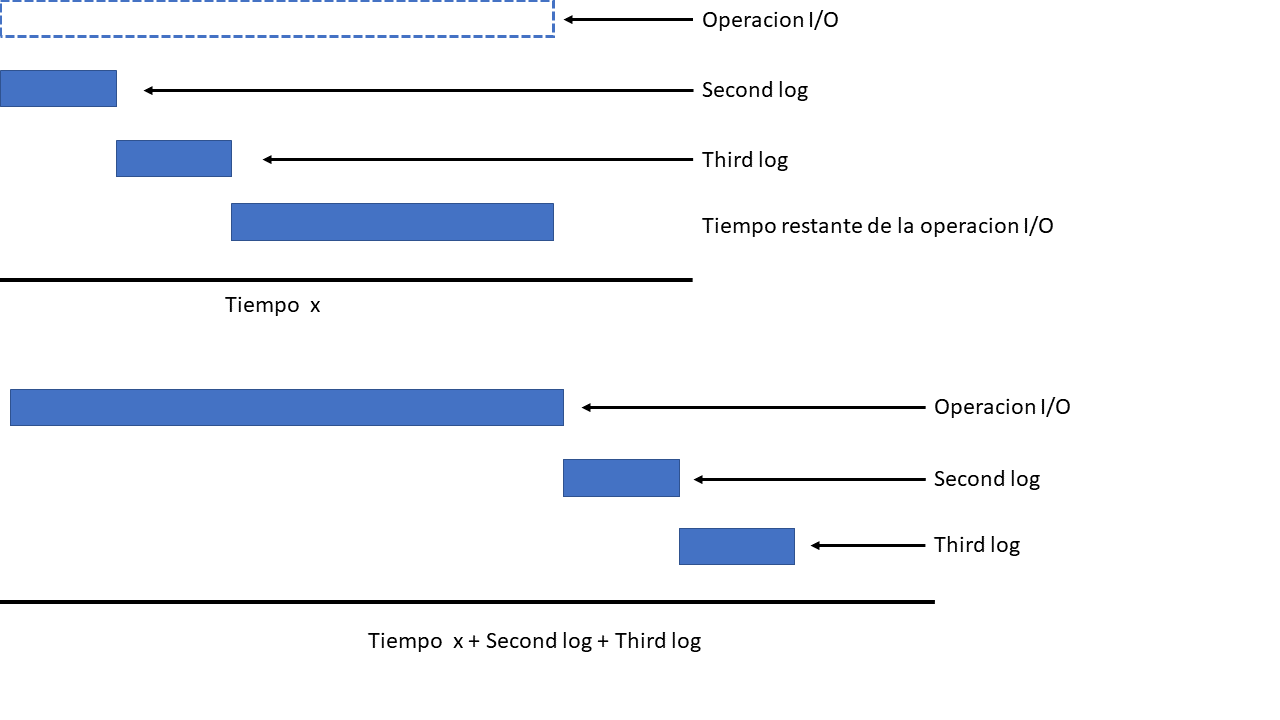
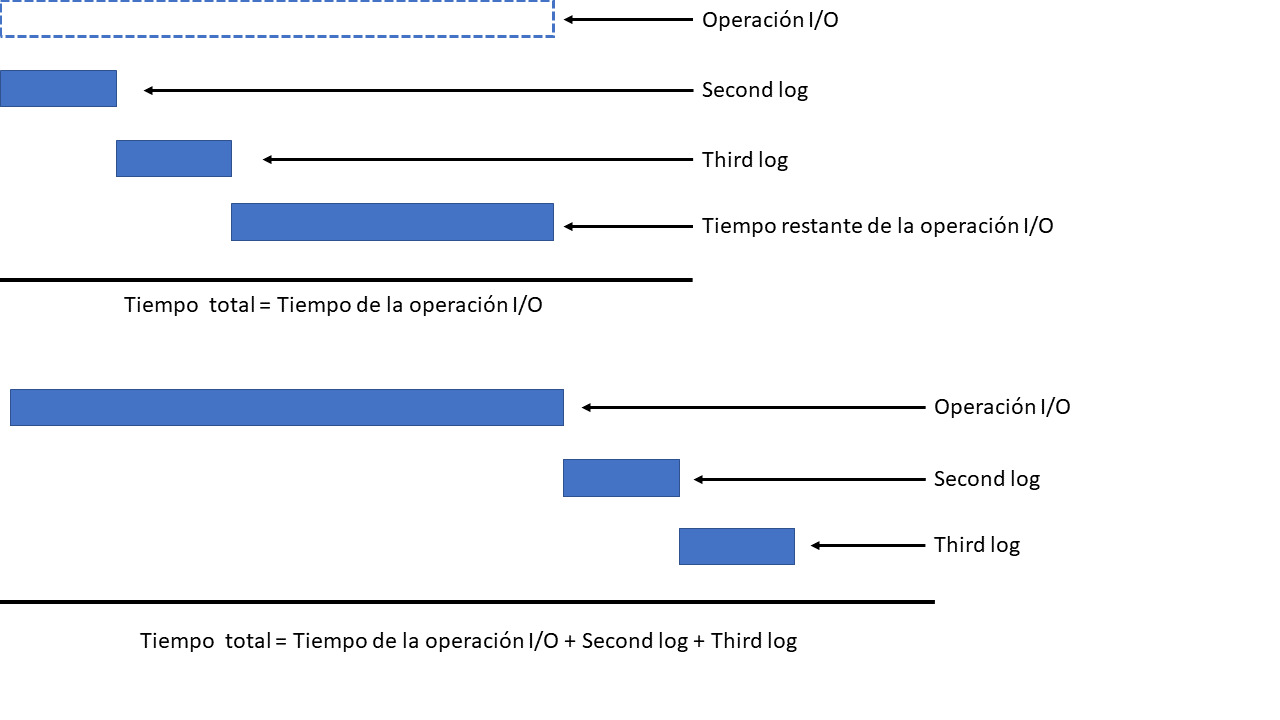
Mejorando el contenido ya escrito

Changed region(s): [[0.125, 0.8556, 0.625, 0.9167], [0.0938, 0.3972, 0.4375, 0.4583], [0.4375, 0.3056, 0.5312, 0.3361]]

diff --git a/Charla-1/README.md b/Charla-1/README.md
@@ -47,13 +47,31 @@ El código de arriba es un ejemplo de un proceso no bloqueante, pues el procesam
 	7. Se evalua si existe algún error en la lectura del archivo.
 	8. Se ejecuta la función log del objeto console. Por lo que se imprime en consola el contenido del archivo en forma de string.
 
+El resultado en consola debería ser algo parecido al siguiente:
+
+![Resultado](https://github.com/ADDR2/LearnNode/blob/charla-1/Charla-1/Result.png?raw=true)
+
 Esto se ilustra mejor en la siguiente imagen:
 
 ![Grafica](https://github.com/ADDR2/LearnNode/blob/charla-1/Charla-1/Non-Blocking-Chart.png?raw=true)
 
-El resultado en consola debería ser algo parecido al siguiente:
+En la parte superior de la imagen se ilustra el tiempo requerido para la ejecución de todo el código de manera no bloqueante, pero en la parte inferior se ilustra el tiempo requerido para la ejecución del código de manera bloqueante. Es decir, la imagen en la parte inferior sería el equivalente a el siguiente código:
 
-![Resultado](https://github.com/ADDR2/LearnNode/blob/charla-1/Charla-1/Result.png?raw=true)
+```js
+const { readFileSync } = require('fs');
+
+function printSomething() {
+    return Math.random()*10;
+}
+
+const data = readFileSync('./README.md', 'utf8');
+
+console.log('First log: ', data);
+
+console.log('Second log: ', 1+2);
+
+console.log('Third log: ', printSomething());
+```
 
 
 ### Proceso Event Loop
@@ -61,6 +79,20 @@ El resultado en consola debería ser algo parecido al siguiente:
 Node procesa todo tu código síncrono y delega todo lo asíncrono a este proceso. El `Event Loop` es un algoritmo que se ejecuta al final de haber ejecutado todo tu código síncrono. Sin embargo, cuenta con diferentes procesos y/o colas que se encargan de avisar cuando algún proceso asíncrono está listo.
 
 El `Event Loop` se ejecuta al final, pero los procesos asíncronos no esperan a este. Es decir, los procesos asíncronos empiezan a ejecutarse en paralelo (o concurrentemente dependiendo de tu arquitectura) pero deben esperar a que el `Event Loop` se ejecute y verifique si ya finalizaron para poder volver al ambiente de tu código y continuar ejecutando aquellas secciones que estaban esperando la resolución de este proceso asíncrono.
+
+Finalmente, el propósito del `Event Loop` es garantizar el comportamiento no bloqueante antes mencionado, de manera que tu código se ejecuta en un sólo hilo y las operaciones asíncronas se delegan a otros hilos para que al terminar de ejecutar tu código síncrono se ejecute el `Event Loop` y se verifique si aún hay operaciones o procesos pendientes.
+
+### Manejo de paquetes/librerías/módulos
+
+### Extensiones
+
+## Dependencias principales
+
+### V8
+
+### libuv
+
+## Event Loop
 
 Imagina que el `Event Loop` es un `while` que tiene una condición de parada y un código interno que se ejecuta en cada iteración. La condición de parada sería que no haya ningún proceso asíncrono en espera. A continuación se ilustra un código que describe el proceso que realiza el `Event Loop`:
 
@@ -83,7 +115,3 @@ while(processWaiting()) {
     closeCallbacks();
 }
 ```
-
-### Manejo de paquetes/librerías/módulos
-
-### Extensiones
